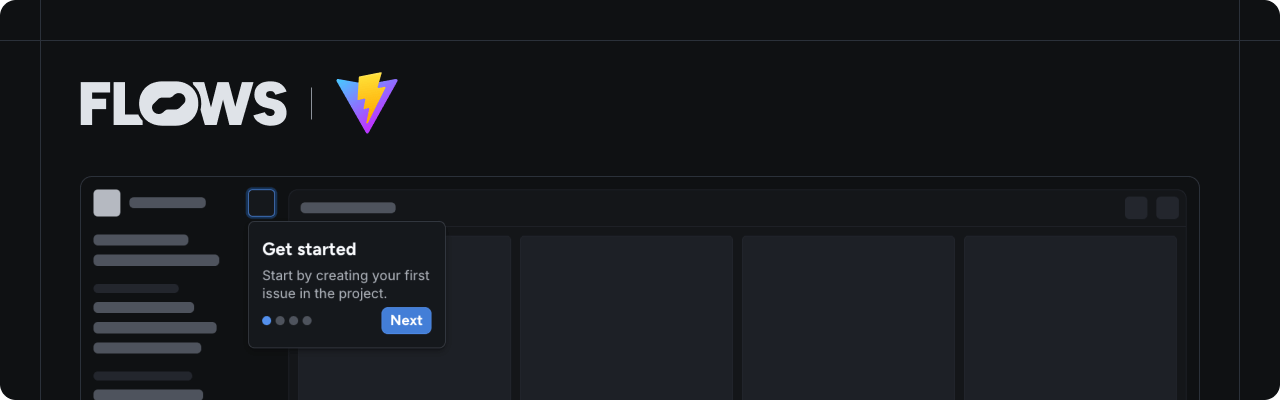
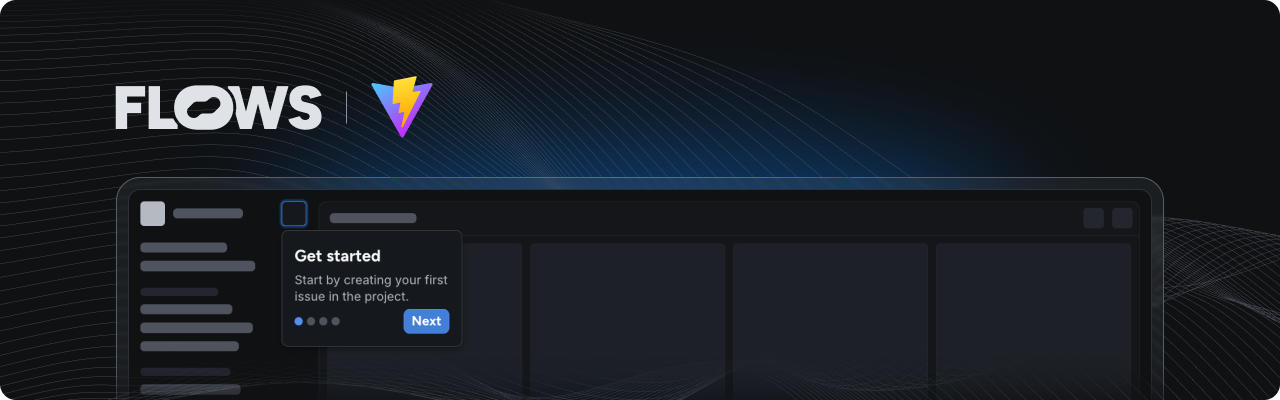
feat: replace cover images

diff --git a/examples/js/cdn/README.md b/examples/js/cdn/README.md
@@ -2,8 +2,7 @@
 
 An example project showcasing how to use Flows with JavaScript loaded from CDN to build product adoption experiences.
 
-<!-- TODO: add cover image -->
-<!-- ![Cover](./cover.png) -->
+![Cover](./cover.png)
 
 This example is basic HTML page extended with the [`@flows/js`](https://www.npmjs.com/package/@flows/js) and [`@flows/js-components`](https://www.npmjs.com/package/@flows/js-components) packages to demonstrate how to integrate Flows into your website.
 
